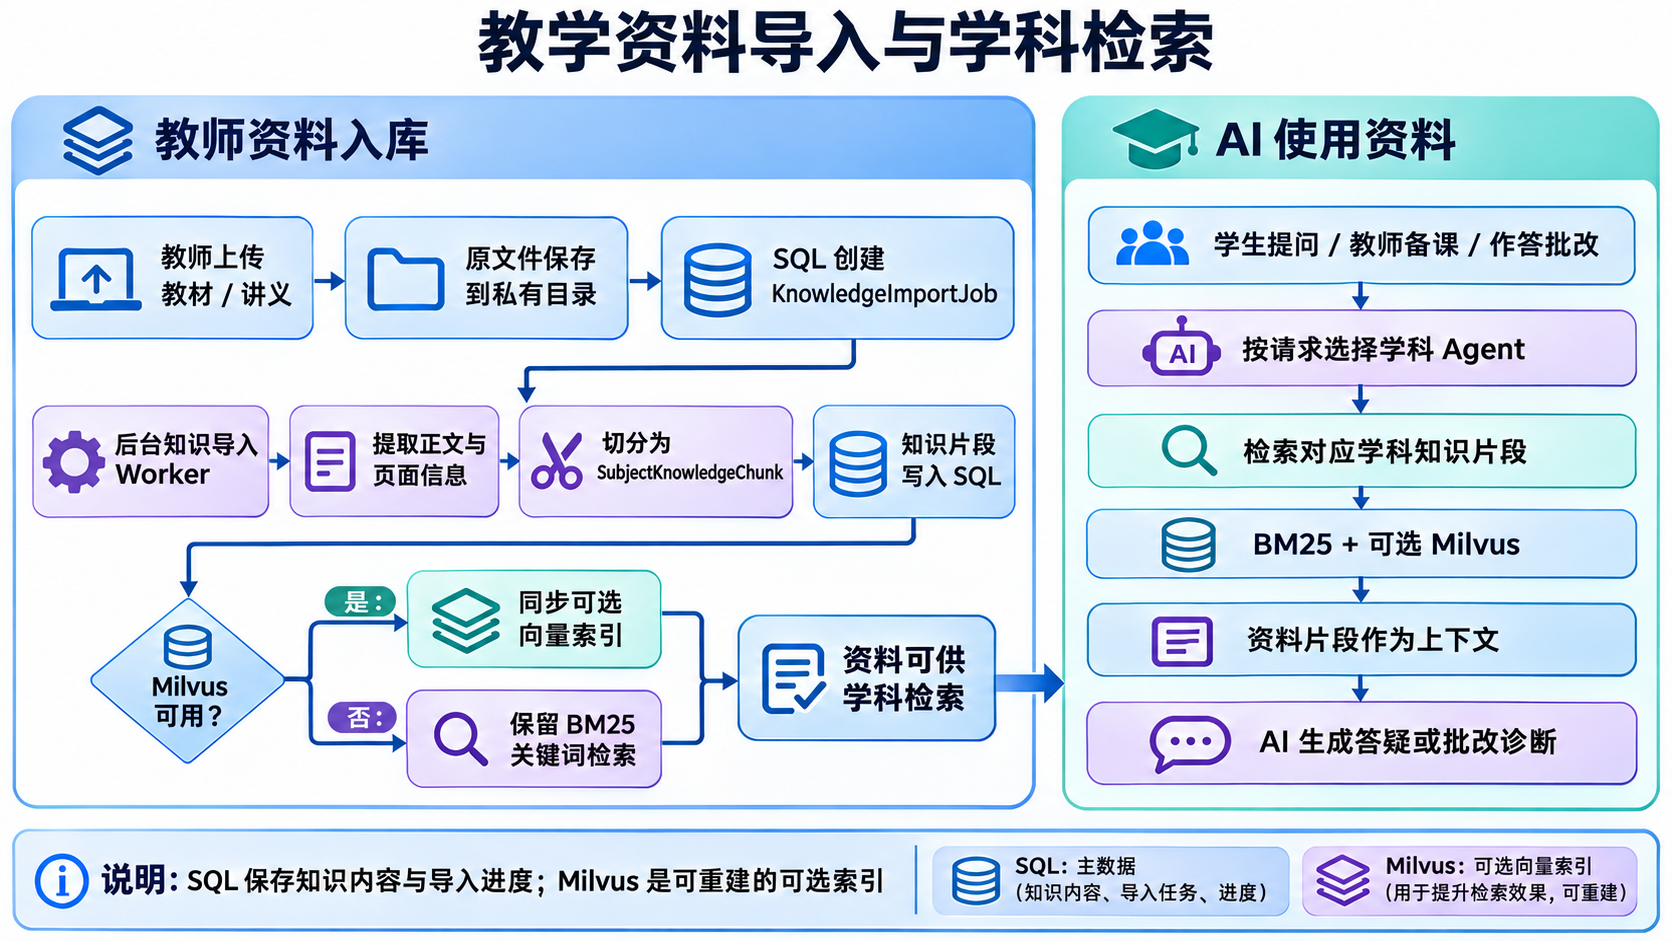
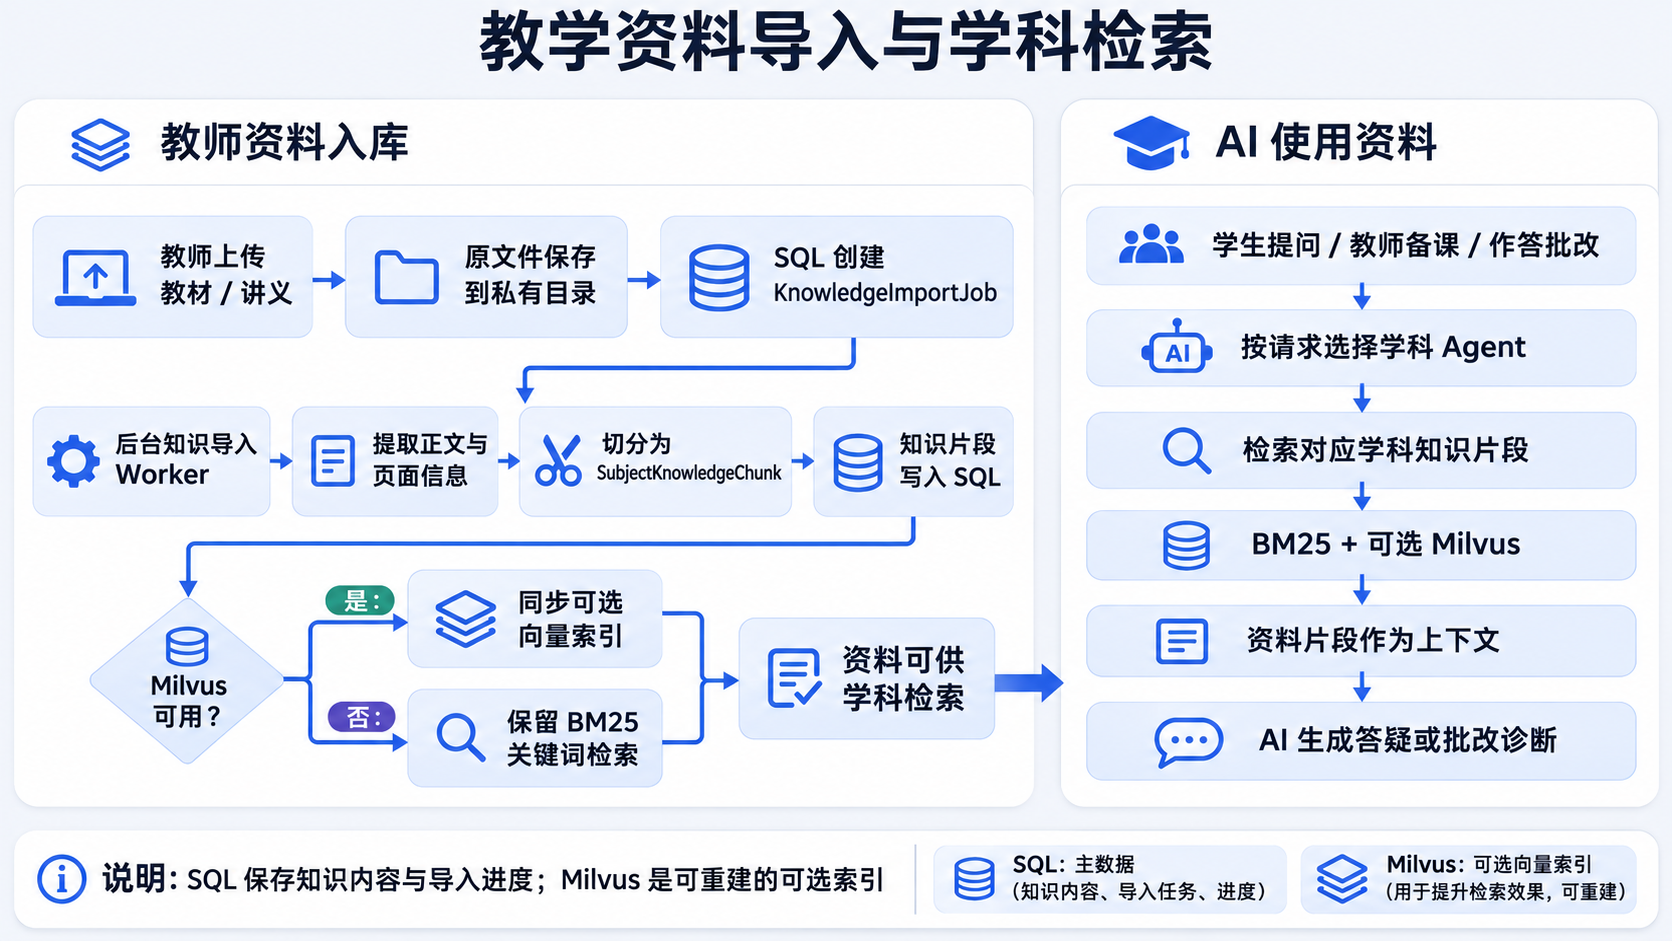
统一技术图为 Remedi 产品界面风格

diff --git a/docs/技术资料/README.md b/docs/技术资料/README.md
@@ -11,6 +11,8 @@
 
 架构图和工作流图使用 ImageGen 生成，图片统一放在 [技术图](技术图/) 文件夹中：
 
+所有项目图统一采用 Remedi 产品界面风格：浅灰工作区、白色卡片、品牌蓝、深色文字和细边框。
+
 - [项目功能总览 PNG](技术图/project_feature_overview.png)
 - [系统架构 PNG](技术图/architecture.png)
 - [主工作流 PNG](技术图/workflow.png)
